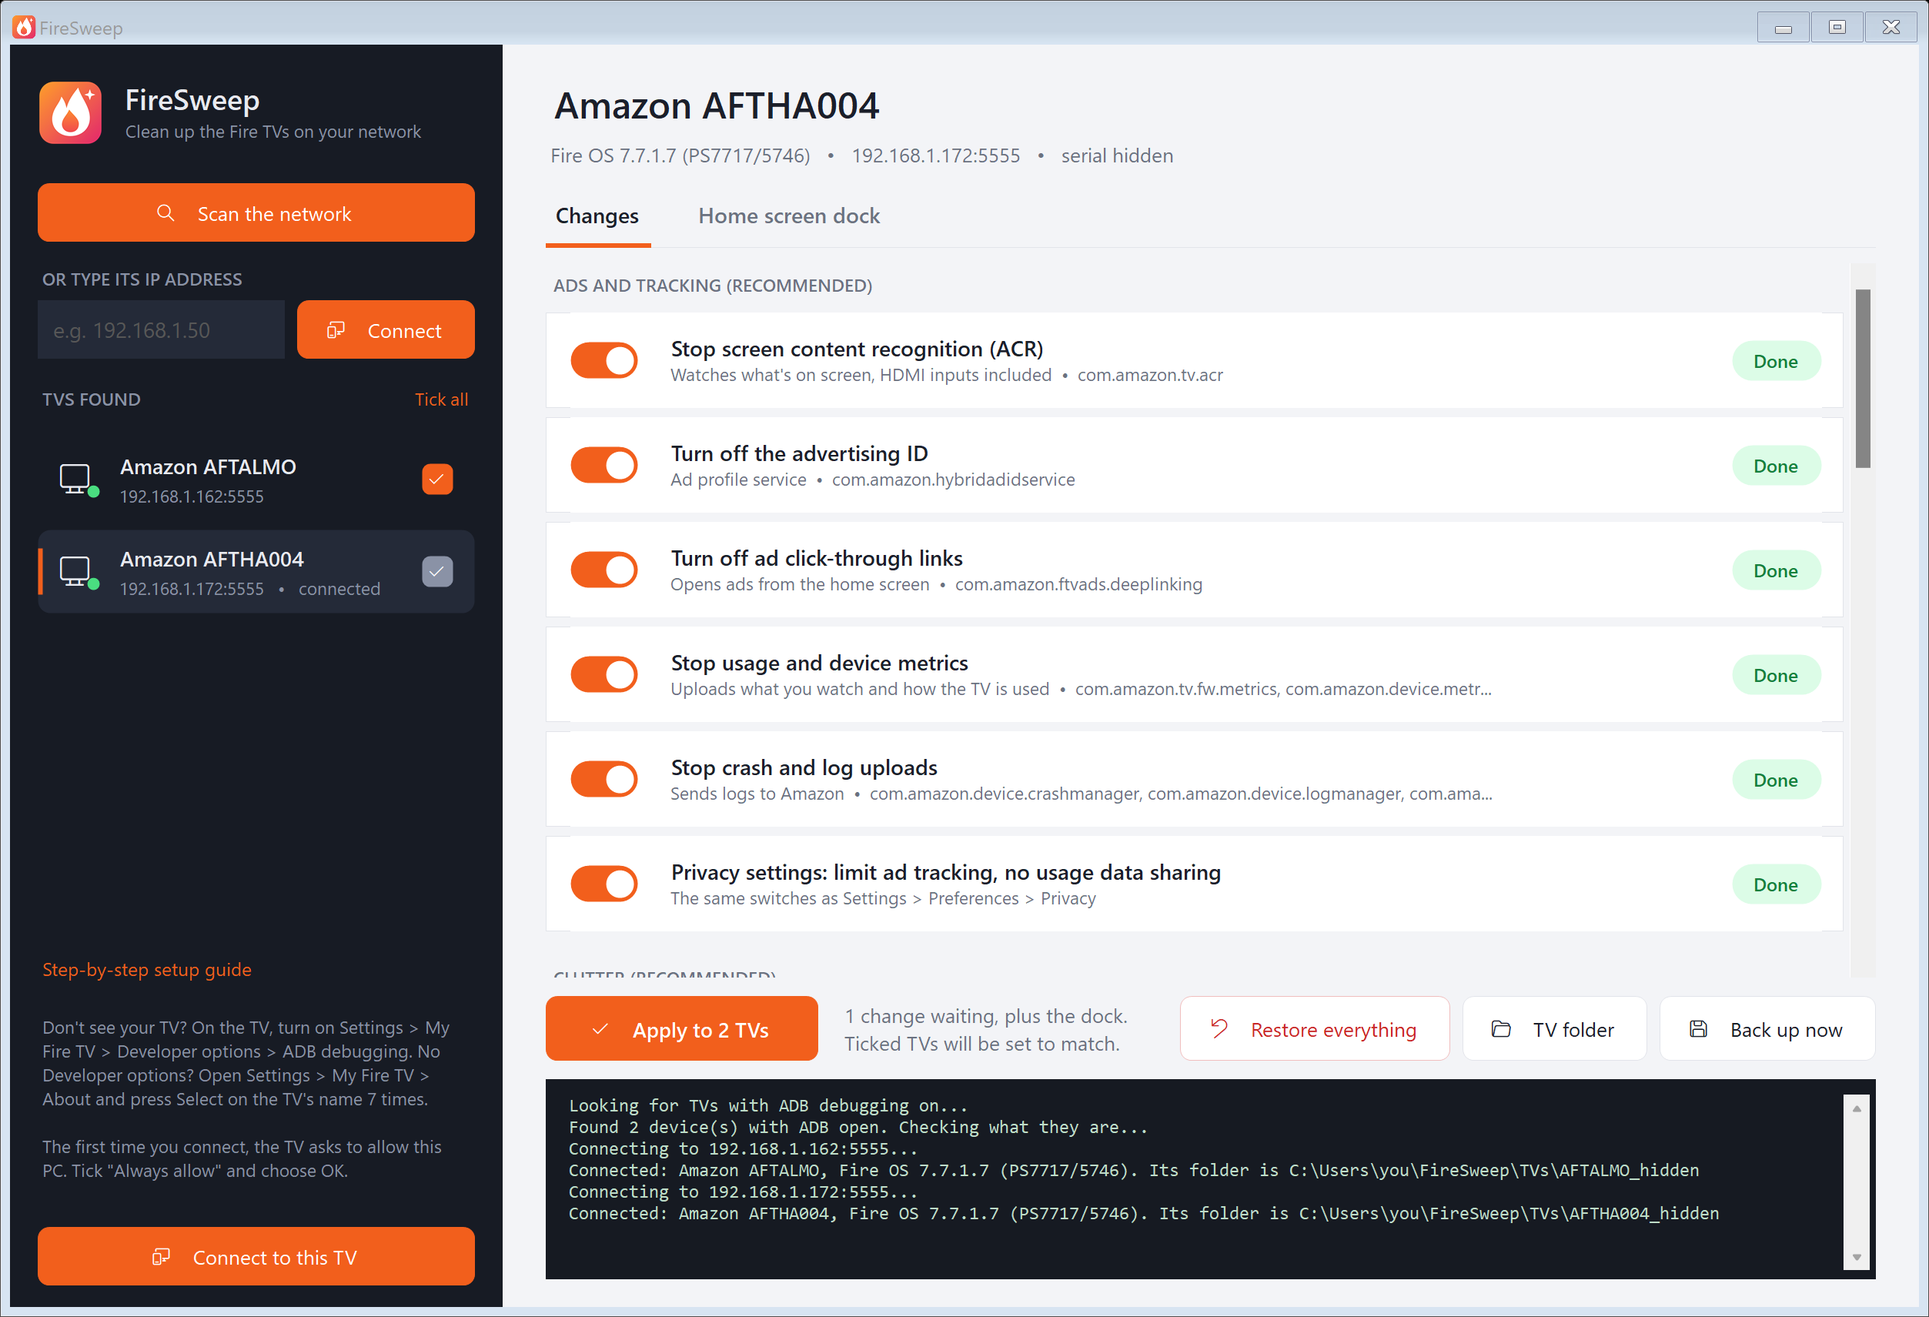
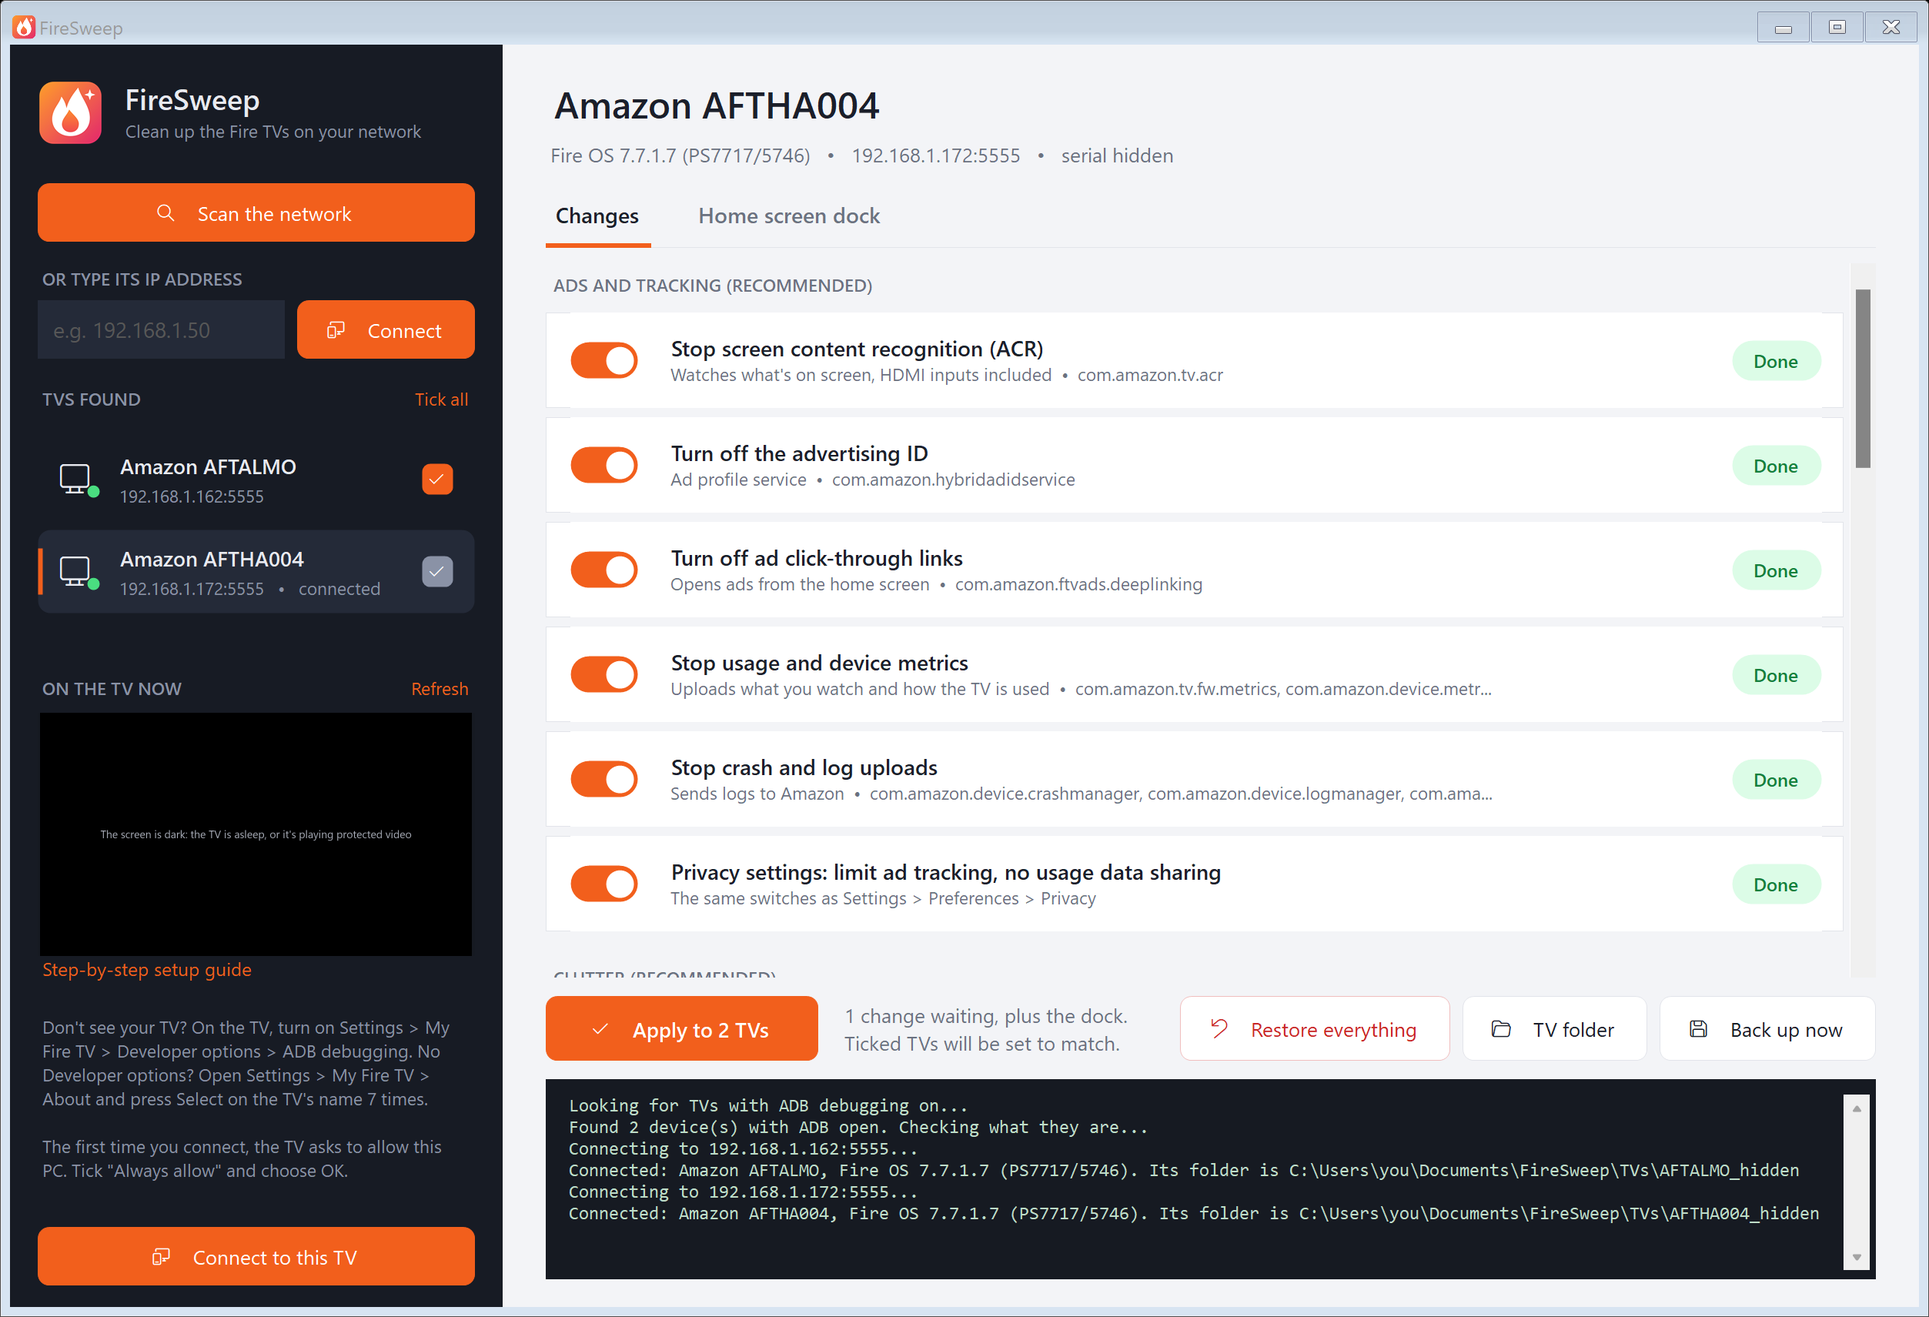
Screen previews; keep TV data in Documents
A live picture of the connected TV's screen sits under the TV list, and the
dock tab previews the IsafellieOS home screen as apps are picked. Each TV's
logs and backups now live in Documents\FireSweep\TVs, so running the exe
from a different folder never loses track of earlier changes.

Changed region(s): [[0.0, 0.4956, 0.249, 0.7434], [0.747, 0.8673, 0.9338, 0.9293]]

diff --git a/src/Preview.cs b/src/Preview.cs
@@ -1,0 +1,169 @@
+using System;
+using System.Collections.Generic;
+using System.Drawing;
+using System.Drawing.Drawing2D;
+using System.IO;
+using System.Windows.Forms;
+
+/// <summary>Pictures shown in the app: the TV's live screen, and a mock-up of the IsafellieOS home screen.</summary>
+static class Preview
+{
+    static Image wallpaper;
+
+    /// <summary>Takes a screenshot of the TV without showing anything on it. Returns null if it fails.</summary>
+    public static Image TvScreen(string addr)
+    {
+        string file = Path.Combine(Path.GetTempPath(), "firesweep-screen-" + Guid.NewGuid().ToString("N") + ".png");
+        try
+        {
+            Adb.ExecOutToFile(addr, "screencap -p", file);
+            if (!File.Exists(file) || new FileInfo(file).Length < 100) return null;
+            // Load through memory so the temp file isn't kept locked.
+            var img = new Bitmap(Image.FromStream(new MemoryStream(File.ReadAllBytes(file))));
+            if (IsDark(img)) Caption(img, "The screen is dark: the TV is asleep, or it's playing protected video");
+            return img;
+        }
+        catch { return null; }
+        finally { try { File.Delete(file); } catch { } }
+    }
+
+    static bool IsDark(Bitmap b)
+    {
+        int bright = 0, n = 0;
+        for (int y = 0; y < b.Height; y += b.Height / 24 + 1)
+            for (int x = 0; x < b.Width; x += b.Width / 32 + 1, n++)
+                if (b.GetPixel(x, y).GetBrightness() > 0.08f) bright++;
+        return bright < n / 50 + 1;
+    }
+
+    static void Caption(Bitmap b, string text)
+    {
+        using (var g = Graphics.FromImage(b))
+        using (var f = new Font("Segoe UI", b.Width / 40f, GraphicsUnit.Pixel))
+        using (var sf = new StringFormat { Alignment = StringAlignment.Center, LineAlignment = StringAlignment.Center })
+        using (var br = new SolidBrush(Color.FromArgb(170, 175, 186)))
+        {
+            g.TextRenderingHint = System.Drawing.Text.TextRenderingHint.AntiAliasGridFit;
+            g.DrawString(text, f, br, new RectangleF(b.Width * 0.1f, 0, b.Width * 0.8f, b.Height), sf);
+        }
+    }
+
+    static readonly Dictionary<string, Color[]> brand = new Dictionary<string, Color[]>
+    {
+        // background, text
+        { "com.netflix.ninja", new[] { Color.White, Color.FromArgb(229, 9, 20) } },
+        { "com.amazon.firetv.youtube", new[] { Color.White, Color.FromArgb(255, 0, 0) } },
+        { "com.amazon.firetv.youtube.tv", new[] { Color.White, Color.FromArgb(255, 0, 0) } },
+        { "com.amazon.firebat", new[] { Color.FromArgb(0, 168, 225), Color.White } },
+        { "com.hbo.hbonow", new[] { Color.FromArgb(0, 18, 76), Color.White } },
+        { "com.apple.atve.amazon.appletv", new[] { Color.Black, Color.White } },
+        { "com.disney.disneyplus", new[] { Color.FromArgb(4, 60, 92), Color.White } },
+        { "com.hulu.plus", new[] { Color.FromArgb(28, 231, 131), Color.FromArgb(4, 16, 32) } },
+        { "com.peacock.peacockfiretv", new[] { Color.Black, Color.White } },
+        { "com.cbs.ott", new[] { Color.FromArgb(0, 100, 255), Color.White } },
+        { "com.plexapp.android", new[] { Color.FromArgb(31, 31, 31), Color.FromArgb(229, 160, 13) } },
+        { "org.xbmc.kodi", new[] { Color.FromArgb(23, 178, 231), Color.White } },
+        { "tv.pluto.android", new[] { Color.Black, Color.FromArgb(255, 240, 0) } },
+        { "com.tubitv", new[] { Color.FromArgb(124, 28, 255), Color.White } },
+        { "com.espn.gtv", new[] { Color.FromArgb(205, 0, 0), Color.White } },
+        { "com.spotify.tv.android", new[] { Color.FromArgb(25, 20, 20), Color.FromArgb(30, 215, 96) } },
+        { "com.sling", new[] { Color.FromArgb(0, 132, 255), Color.White } },
+        { "com.fubo.firetv.screen", new[] { Color.FromArgb(250, 70, 22), Color.White } },
+    };
+
+    static Color[] Colors(string pkg)
+    {
+        Color[] c;
+        if (brand.TryGetValue(pkg, out c)) return c;
+        // Anything else gets a steady color from its package name.
+        int h = 0;
+        foreach (char ch in pkg) h = h * 31 + ch;
+        var palette = new[] { Color.FromArgb(52, 73, 94), Color.FromArgb(91, 44, 111), Color.FromArgb(22, 106, 116), Color.FromArgb(120, 66, 18), Color.FromArgb(30, 61, 130) };
+        return new[] { palette[Math.Abs(h) % palette.Length], Color.White };
+    }
+
+    /// <summary>Draws IsafellieOS's home screen as it would look with this dock, at the given size.</summary>
+    public static Bitmap Home(List<string> dock, int width)
+    {
+        int height = width * 9 / 16;
+        float u = width / 1920f;  // the launcher is laid out for a 1920x1080 screen
+        var bmp = new Bitmap(width, height);
+        using (var g = Graphics.FromImage(bmp))
+        {
+            g.SmoothingMode = SmoothingMode.AntiAlias;
+            g.InterpolationMode = InterpolationMode.HighQualityBicubic;
+            g.TextRenderingHint = System.Drawing.Text.TextRenderingHint.AntiAliasGridFit;
+            if (wallpaper == null)
+            {
+                var s = typeof(Preview).Assembly.GetManifestResourceStream("wallpaper.jpg");
+                if (s != null) wallpaper = Image.FromStream(s);
+            }
+            if (wallpaper != null) g.DrawImage(wallpaper, 0, 0, width, height);
+            else g.Clear(Color.FromArgb(40, 60, 80));
+
+            using (var f = new Font("Segoe UI", 30 * u, GraphicsUnit.Pixel))
+                g.DrawString("IsafellieOS", f, Brushes.White, 80 * u, 60 * u);
+            using (var f = new Font("Segoe UI Light", 64 * u, GraphicsUnit.Pixel))
+            {
+                string time = DateTime.Now.ToString("h:mm");
+                var size = g.MeasureString(time, f);
+                g.DrawString(time, f, Brushes.White, width - 80 * u - size.Width, 40 * u);
+            }
+
+            // Tiles: the dock's apps, then All apps and Settings, on a translucent shelf.
+            float tileW = 200 * u, tileH = 112 * u, smallW = 112 * u, gap = 26 * u, pad = 30 * u;
+            float total = dock.Count * (tileW + gap) + 2 * smallW + gap + 2 * pad;
+            if (total > width - 40 * u)
+            {
+                float k = (width - 40 * u) / total;
+                tileW *= k; tileH *= k; smallW *= k; gap *= k; pad *= k; total = width - 40 * u;
+            }
+            float x = (width - total) / 2, y = height - 90 * u - tileH - 2 * pad;
+            using (var shelf = Theme.Round(Rectangle.Round(new RectangleF(x, y, total, tileH + 2 * pad)), (int)(40 * u)))
+            using (var b = new SolidBrush(Color.FromArgb(70, 255, 255, 255)))
+                g.FillPath(b, shelf);
+            x += pad;
+            float ty = y + pad;
+            foreach (var pkg in dock)
+            {
+                var c = Colors(pkg);
+                var r = Rectangle.Round(new RectangleF(x, ty, tileW, tileH));
+                using (var path = Theme.Round(r, (int)(22 * u)))
+                using (var b = new SolidBrush(c[0]))
+                    g.FillPath(b, path);
+                using (var f = new Font("Segoe UI Semibold", Math.Max(6f, 26 * u * (tileW / (200 * u))), GraphicsUnit.Pixel))
+                using (var b = new SolidBrush(c[1]))
+                using (var sf = new StringFormat { Alignment = StringAlignment.Center, LineAlignment = StringAlignment.Center, Trimming = StringTrimming.EllipsisCharacter })
+                    g.DrawString(Catalog.AppName(pkg), f, b, r, sf);
+                x += tileW + gap;
+            }
+            foreach (var glyph in new[] { "", "" })  // grid of apps, gear
+            {
+                var r = Rectangle.Round(new RectangleF(x, ty, smallW, tileH));
+                using (var path = Theme.Round(r, (int)(22 * u)))
+                using (var b = new SolidBrush(Color.FromArgb(60, 255, 255, 255)))
+                    g.FillPath(b, path);
+                using (var f = Theme.Icons(Math.Max(5f, 30 * u * 0.75f)))
+                    TextRenderer.DrawText(g, glyph, f, r, Color.White, TextFormatFlags.HorizontalCenter | TextFormatFlags.VerticalCenter);
+                x += smallW + gap;
+            }
+        }
+        return bmp;
+    }
+
+    /// <summary>Shows an image large, in its own window.</summary>
+    public static void ShowLarge(IWin32Window owner, Image img, string title)
+    {
+        if (img == null) return;
+        var screen = Screen.FromHandle(owner.Handle).WorkingArea;
+        int w = Math.Min(screen.Width * 8 / 10, img.Width), h = w * img.Height / img.Width;
+        var f = new Form
+        {
+            Text = title, BackColor = Color.Black, StartPosition = FormStartPosition.CenterParent,
+            ClientSize = new Size(w, h), ShowIcon = false, MinimizeBox = false, KeyPreview = true,
+        };
+        f.Controls.Add(new PictureBox { Dock = DockStyle.Fill, Image = img, SizeMode = PictureBoxSizeMode.Zoom });
+        f.KeyDown += (s, e) => { if (e.KeyCode == Keys.Escape) f.Close(); };
+        f.Show(owner);
+    }
+}

diff --git a/src/MainForm.cs b/src/MainForm.cs
@@ -21,6 +21,8 @@ class MainForm : Form
     TextBox ipBox, logBox;
     Button scanBtn, addBtn, openBtn, applyBtn, backupBtn, restoreBtn, folderBtn, addDock, removeDock, upDock, downDock;
     Label tvTitle, tvSub, dockNote, pendingLabel;
+    PictureBox screenBox, homePreview;
+    LinkLabel screenRefresh;
     FlowLayoutPanel changesList;
     Panel changesPage, dockPage, tabBar;
     int tab;
@@ -192,6 +194,24 @@ class MainForm : Form
             LinkColor = Theme.Accent, ActiveLinkColor = Theme.AccentDark, VisitedLinkColor = Theme.Accent, LinkBehavior = LinkBehavior.HoverUnderline,
         };
         guide.LinkClicked += (s, e) => Process.Start(GuideUrl);
+
+        // A live picture of the connected TV's screen, under the TV list.
+        var screenCard = new Panel { Dock = DockStyle.Bottom, Height = S(190), BackColor = Theme.Side, Visible = false, Padding = new Padding(0, S(8), 0, 0) };
+        screenBox = new PictureBox { Dock = DockStyle.Fill, SizeMode = PictureBoxSizeMode.Zoom, BackColor = Theme.Console, Cursor = Cursors.Hand };
+        screenBox.Click += (s, e) => Preview.ShowLarge(this, screenBox.Image, tv == null ? "TV screen" : tv.Maker + " " + tv.Model + " screen");
+        new ToolTip().SetToolTip(screenBox, "What the TV shows right now. Click to enlarge.");
+        var screenHead = new Panel { Dock = DockStyle.Top, Height = S(24), BackColor = Theme.Side };
+        screenRefresh = new LinkLabel
+        {
+            Dock = DockStyle.Right, AutoSize = true, Text = "Refresh", Font = Theme.UI(8.5f),
+            LinkColor = Theme.Accent, ActiveLinkColor = Theme.AccentDark, VisitedLinkColor = Theme.Accent, LinkBehavior = LinkBehavior.HoverUnderline,
+        };
+        screenRefresh.LinkClicked += (s, e) => RefreshScreen();
+        screenHead.Controls.Add(Caption("On the TV now", Theme.SideMuted));
+        screenHead.Controls.Add(screenRefresh);
+        screenCard.Controls.Add(screenBox);
+        screenCard.Controls.Add(screenHead);
+        side.Controls.Add(screenCard);
         side.Controls.Add(guide);
         side.Controls.Add(help);
         side.Controls.Add(openBtn);
@@ -396,9 +416,16 @@ class MainForm : Form
         }
         grid.Controls.Add(mid, 1, 0);
 
-        dockNote = new Label { Dock = DockStyle.Bottom, Height = S(52), ForeColor = Theme.Muted, Padding = new Padding(0, S(10), 0, 0) };
+        // Below the lists: how the home screen will look with this dock.
+        var previewRow = new Panel { Dock = DockStyle.Bottom, Height = S(236), BackColor = Theme.Bg, Padding = new Padding(0, S(14), 0, 0) };
+        homePreview = new PictureBox { Dock = DockStyle.Left, Width = S(392), SizeMode = PictureBoxSizeMode.Zoom, BackColor = Theme.Console, Cursor = Cursors.Hand };
+        homePreview.Click += (s, e) => Preview.ShowLarge(this, Preview.Home(CurrentDock(), 1600), "IsafellieOS preview");
+        new ToolTip().SetToolTip(homePreview, "How IsafellieOS will look with this dock. Click to enlarge.");
+        dockNote = new Label { Dock = DockStyle.Fill, ForeColor = Theme.Muted, Padding = new Padding(S(18), S(4), 0, 0) };
+        previewRow.Controls.Add(dockNote);
+        previewRow.Controls.Add(homePreview);
         page.Controls.Add(grid);
-        page.Controls.Add(dockNote);
+        page.Controls.Add(previewRow);
         return page;
     }
 
@@ -496,7 +523,7 @@ class MainForm : Form
         try
         {
             await Task.Run(work);
-            if (refresh && tv != null) { await Task.Run(() => tv.Refresh()); ShowTv(); }
+            if (refresh && tv != null) { await Task.Run(() => tv.Refresh()); ShowTv(); RefreshScreen(); }
         }
         catch (Exception ex) { Log("Couldn't " + what + ": " + ex.Message); }
         finally { SetBusy(false); }
@@ -646,6 +673,7 @@ class MainForm : Form
             var dock = await Task.Run(() => t.GetDock());
             ShowTv();
             ShowDock(apps, dock);
+            RefreshScreen();
         }
         catch (Exception ex)
         {
@@ -793,6 +821,7 @@ class MainForm : Form
             if (only != null && !d.Addr.StartsWith(only)) continue;
             devices.SelectedItem = d;
             await OpenSelectedAsync();
+            await RefreshScreenAsync();
             string name = d.Addr.Replace(":", "_");
             // Hide the serial number in pictures meant for the README.
             if (Environment.GetEnvironmentVariable("FIRESWEEP_SELFTEST_HIDE") != null)
@@ -842,10 +871,37 @@ class MainForm : Form
             ? "This is the dock IsafellieOS shows now. Changes go to the TV when you choose Apply changes."
             : "The dock is sent to the TV when IsafellieOS is installed or updated (turn on \"Use IsafellieOS as the home screen\", then Apply changes). " +
               "It can also be changed from the TV: press Menu on an app.";
+        dockNote.Text += "\n\nLeft: a preview of IsafellieOS with this dock. Click it to enlarge. On the TV, the tiles use each app's own banner.";
+        UpdatePreview();
         UpdateButtons();
     }
 
-    void DockEdited() { dockChanged = true; dockList.Invalidate(); UpdateButtons(); }
+    void DockEdited() { dockChanged = true; dockList.Invalidate(); UpdatePreview(); UpdateButtons(); }
+
+    List<string> CurrentDock() { return dockList.Items.Cast<AppEntry>().Select(e => e.Pkg).ToList(); }
+
+    void UpdatePreview()
+    {
+        var old = homePreview.Image;
+        homePreview.Image = Preview.Home(CurrentDock(), S(784));
+        if (old != null) old.Dispose();
+    }
+
+    void RefreshScreen() { var t = RefreshScreenAsync(); }
+
+    async Task RefreshScreenAsync()
+    {
+        if (tv == null) return;
+        var t = tv;
+        screenBox.Parent.Visible = true;
+        screenRefresh.Text = "Updating...";
+        var img = await Task.Run(() => Preview.TvScreen(t.Addr));
+        if (t != tv) { if (img != null) img.Dispose(); return; }
+        var old = screenBox.Image;
+        screenBox.Image = img;
+        if (old != null) old.Dispose();
+        screenRefresh.Text = img == null ? "Couldn't get it. Retry" : "Refresh";
+    }
 
     void DockAdd()
     {

diff --git a/src/Program.cs b/src/Program.cs
@@ -31,23 +31,14 @@ static class Program
         Application.Run(new MainForm(DataRoot()));
     }
 
-    /// <summary>Each TV's backups, logs and restore script go in a "TVs" folder next to the program.</summary>
+    /// <summary>
+    /// Each TV's backups, logs and restore script go in Documents\FireSweep\TVs, the same place
+    /// wherever the program is run from, so a copy of the exe never loses track of earlier changes.
+    /// </summary>
     static string DataRoot()
     {
-        string root = Path.Combine(Path.GetDirectoryName(Application.ExecutablePath), "TVs");
-        try
-        {
-            Directory.CreateDirectory(root);
-            string probe = Path.Combine(root, ".write-test");
-            File.WriteAllText(probe, "");
-            File.Delete(probe);
-            return root;
-        }
-        catch
-        {
-            root = Path.Combine(Environment.GetFolderPath(Environment.SpecialFolder.MyDocuments), "FireSweep");
-            Directory.CreateDirectory(root);
-            return root;
-        }
+        string root = Path.Combine(Environment.GetFolderPath(Environment.SpecialFolder.MyDocuments), "FireSweep", "TVs");
+        Directory.CreateDirectory(root);
+        return root;
     }
 }

diff --git a/README.md b/README.md
@@ -9,6 +9,7 @@
 - **One file, nothing to install.** `FireSweep.exe` has adb and the home screen built in.
 - **Finds your TVs.** It scans your network for Fire TVs with ADB debugging on, or you can type a TV's IP address.
 - **Several TVs in one go.** Tick other TVs in the list and one Apply sets them all to match.
+- **Shows you the TV.** A live picture of the TV's screen sits under the TV list, and the dock tab previews the new home screen as you pick apps.
 - **Backs up first.** Before the first change it saves each TV's package list, settings and a screenshot.
 - **Switches off, never uninstalls.** Amazon apps are disabled, not removed. Untick anything to undo it.
 - **Per-TV restore.** Each TV gets a folder with a change log and a double-click **Restore this TV.cmd**.
@@ -50,7 +51,7 @@ Prefer to do it yourself? [Doing it by hand](docs/manual-steps.md) lists every a
 
 ## The IsafellieOS home screen
 
-A quiet home screen: a slowly drifting nature wallpaper, a clock, and a dock of the apps you choose. Pick and order the dock apps on FireSweep's **Home screen dock** tab. You can also change them on the TV by pressing **Menu** on an app.
+A quiet home screen: a slowly drifting nature wallpaper, a clock, and a dock of the apps you choose. Pick and order the dock apps on FireSweep's **Home screen dock** tab; a preview underneath shows the result as you go. You can also change them on the TV by pressing **Menu** on an app.
 
 ![IsafellieOS on a Fire TV](docs/screenshots/tv-isafellieos-home.jpg)
 
@@ -66,7 +67,7 @@ Fire OS 7.7 doesn't let another app become the default home screen. IsafellieOS 
 - **Undo everything:** choose **Restore everything**. It turns every Amazon app back on, puts the settings back, and removes IsafellieOS.
 - **Without the app:** double-click **Restore this TV.cmd** in the TV's folder (**TV folder** button).
 
-Each TV's folder sits next to `FireSweep.exe` in `TVs\<model>_<serial>` and holds:
+Each TV's folder is `Documents\FireSweep\TVs\<model>_<serial>` (the same wherever you run `FireSweep.exe` from) and holds:
 
 | File | What it is |
 |---|---|
